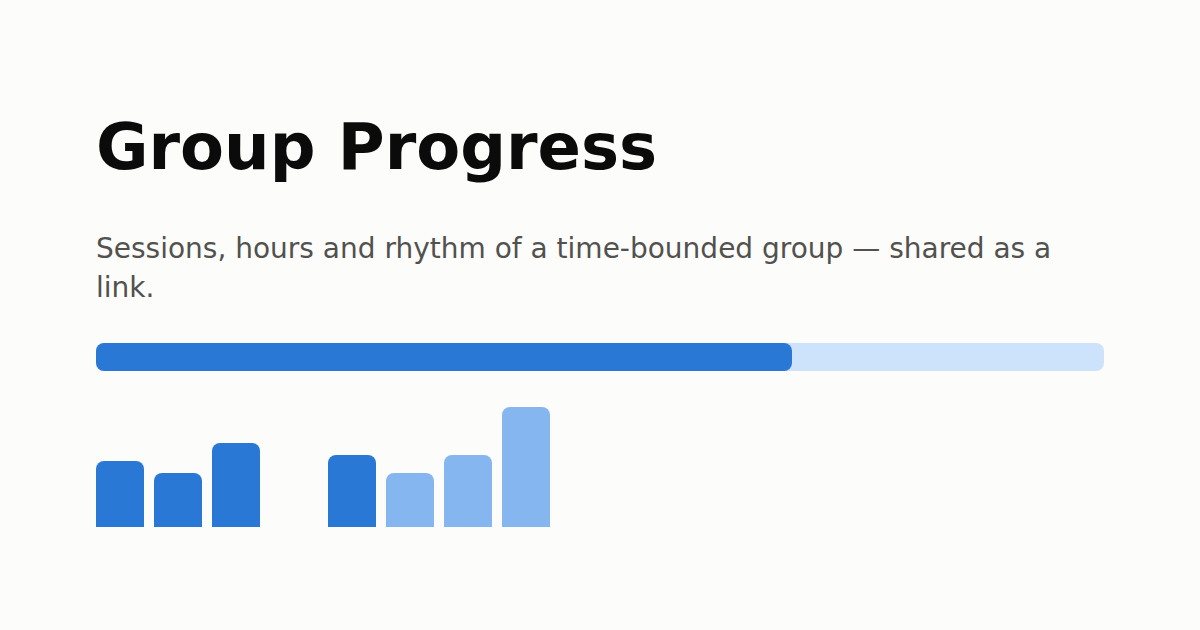
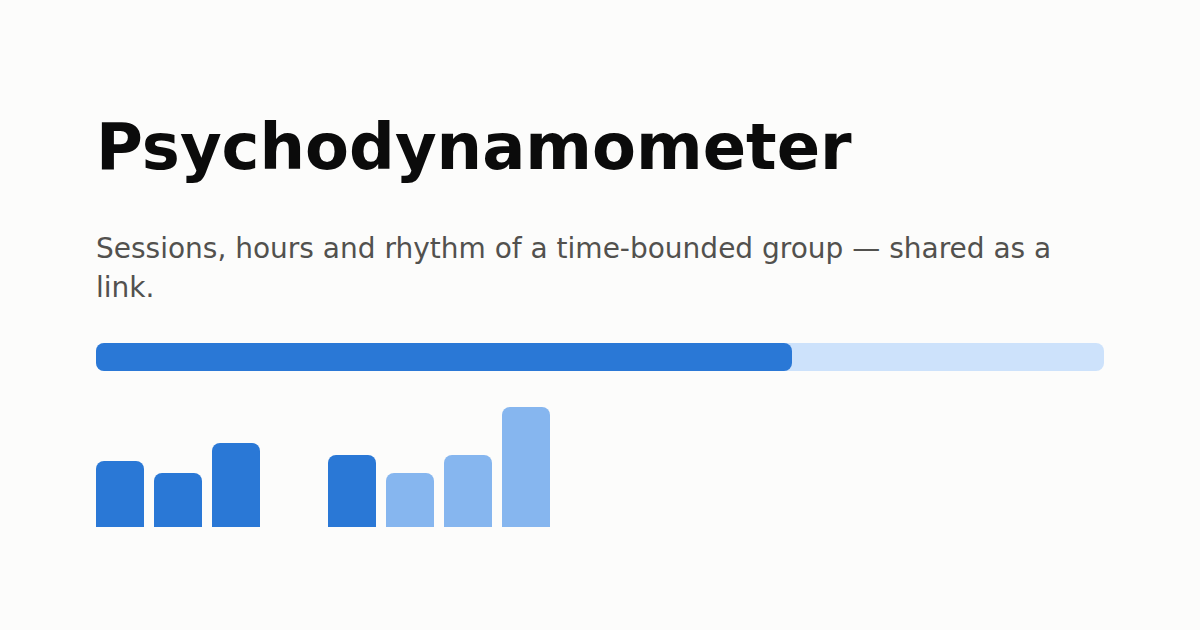
feat: add an app-title h1 and github link, and move to the new repo home

Changed region(s): [[0.0617, 0.181, 0.7092, 0.3016]]

diff --git a/index.html b/index.html
@@ -3,20 +3,21 @@
 	<head>
 		<meta charset="utf-8" />
 		<meta name="viewport" content="width=device-width, initial-scale=1" />
-		<title>Group Progress</title>
+		<title>Psychodynamometer</title>
 		<meta
 			name="description"
 			content="Sessions, hours and rhythm of a time-bounded group — computed live, shared as a link."
 		/>
-		<meta property="og:title" content="Group Progress" />
+		<meta property="og:title" content="Psychodynamometer" />
 		<meta
 			property="og:description"
 			content="Sessions, hours and rhythm of a time-bounded group — computed live, shared as a link."
 		/>
 		<meta property="og:type" content="website" />
+		<meta property="og:url" content="https://vintagentleman.github.io/psychodynamometer/" />
 		<meta
 			property="og:image"
-			content="https://ksipunin.github.io/psycho-group-progress/assets/og.png"
+			content="https://vintagentleman.github.io/psychodynamometer/assets/og.png"
 		/>
 		<link rel="icon" href="assets/favicon.svg" type="image/svg+xml" />
 		<link rel="stylesheet" href="style.css" />
@@ -27,11 +28,36 @@
 			<noscript>This tool needs JavaScript to compute progress from the link.</noscript>
 		</main>
 
-		<template id="tpl-lang-toggle">
-			<div class="lang-toggle" role="group" aria-label="Language / Язык">
-				<button type="button" class="lang" data-lang="en">EN</button>
-				<button type="button" class="lang" data-lang="ru">RU</button>
-			</div>
+		<template id="tpl-topbar">
+			<header class="topbar">
+				<h1 class="app-title" data-i18n="appTitle"></h1>
+				<div class="topbar-actions">
+					<div class="lang-toggle" role="group" aria-label="Language / Язык">
+						<button type="button" class="lang" data-lang="en">EN</button>
+						<button type="button" class="lang" data-lang="ru">RU</button>
+					</div>
+					<a
+						class="gh-link"
+						href="https://github.com/vintagentleman/psychodynamometer"
+						target="_blank"
+						rel="noopener"
+						aria-label="GitHub"
+					>
+						<svg
+							viewBox="0 0 16 16"
+							width="20"
+							height="20"
+							fill="currentColor"
+							aria-hidden="true"
+							focusable="false"
+						>
+							<path
+								d="M8 0C3.58 0 0 3.58 0 8c0 3.54 2.29 6.53 5.47 7.59.4.07.55-.17.55-.38 0-.19-.01-.82-.01-1.49-2.01.37-2.53-.49-2.69-.94-.09-.23-.48-.94-.82-1.13-.28-.15-.68-.52-.01-.53.63-.01 1.08.58 1.23.82.72 1.21 1.87.87 2.33.66.07-.52.28-.87.51-1.07-1.78-.2-3.64-.89-3.64-3.95 0-.87.31-1.59.82-2.15-.08-.2-.36-1.02.08-2.12 0 0 .67-.21 2.2.82.64-.18 1.32-.27 2-.27.68 0 1.36.09 2 .27 1.53-1.04 2.2-.82 2.2-.82.44 1.1.16 1.92.08 2.12.51.56.82 1.27.82 2.15 0 3.07-1.87 3.75-3.65 3.95.29.25.54.73.54 1.48 0 1.07-.01 1.93-.01 2.2 0 .21.15.46.55.38A8.013 8.013 0 0016 8c0-4.42-3.58-8-8-8z"
+							/>
+						</svg>
+					</a>
+				</div>
+			</header>
 		</template>
 
 		<template id="tpl-page">

diff --git a/src/app.js b/src/app.js
@@ -87,8 +87,8 @@ function currentPayload() {
 	return match ? match[1] : null;
 }
 
-function langToggleFragment() {
-	const fragment = cloneTemplate('tpl-lang-toggle');
+function topbarFragment() {
+	const fragment = cloneTemplate('tpl-topbar');
 	for (const button of fragment.querySelectorAll('button.lang')) {
 		const lang = /** @type {HTMLElement} */ (button).dataset.lang;
 		button.classList.toggle('active', locale === lang);
@@ -366,9 +366,9 @@ function renderPage() {
 
 	const titleSlot = slot(page, '.title-slot');
 	if (mode === 'view') {
-		const h1 = document.createElement('h1');
-		h1.textContent = data.title;
-		titleSlot.appendChild(h1);
+		const h2 = document.createElement('h2');
+		h2.textContent = data.title;
+		titleSlot.appendChild(h2);
 	} else {
 		const input = document.createElement('input');
 		input.name = 'title';
@@ -412,7 +412,7 @@ function renderPage() {
 
 	if (mode === 'edit' && state.badLink) slot(page, '.note-badlink').hidden = false;
 
-	app.replaceChildren(langToggleFragment(), page);
+	app.replaceChildren(topbarFragment(), page);
 
 	fillDerived(page, mode === 'edit' ? readForm() : data, new Date(), mode);
 	if (mode === 'edit') markInvalidRows();

diff --git a/style.css b/style.css
@@ -77,11 +77,41 @@ button {
 	}
 }
 
+.topbar {
+	display: flex;
+	justify-content: space-between;
+	align-items: center;
+	gap: 12px;
+	margin-bottom: 10px;
+}
+
+.app-title {
+	margin: 0;
+	min-width: 0;
+	font-size: 14px;
+	font-weight: 600;
+	color: var(--ink);
+}
+
+.topbar-actions {
+	display: flex;
+	flex: none;
+	align-items: center;
+	gap: 10px;
+}
+
+.gh-link {
+	display: inline-flex;
+	color: var(--muted);
+}
+
+.gh-link:hover {
+	color: var(--ink);
+}
+
 .lang-toggle {
 	display: flex;
-	justify-content: flex-end;
 	gap: 4px;
-	margin-bottom: 10px;
 
 	& .lang {
 		padding: 4px 10px;
@@ -110,7 +140,7 @@ button {
 	padding: 20px;
 	border-bottom: 1px solid var(--hairline);
 
-	& h1 {
+	& h2 {
 		margin: 0;
 		font-size: 20px;
 	}

diff --git a/src/i18n.js b/src/i18n.js
@@ -3,6 +3,7 @@
 /** @type {Record<Locale, Record<string, string>>} */
 export const messages = {
 	en: {
+		appTitle: 'Psychodynamometer',
 		progress: 'Progress',
 		nextSession: 'Next session',
 		inProgress: 'in progress',
@@ -33,6 +34,7 @@ export const messages = {
 		remove: 'Remove',
 	},
 	ru: {
+		appTitle: 'Психодинамометр',
 		progress: 'Прогресс',
 		nextSession: 'Следующая сессия',
 		inProgress: 'идёт сейчас',

diff --git a/assets/og-card.html b/assets/og-card.html
@@ -2,7 +2,7 @@
 <html lang="en">
 	<head>
 		<meta charset="utf-8" />
-		<title>Group Progress</title>
+		<title>Psychodynamometer</title>
 		<style>
 			body {
 				margin: 0;
@@ -57,7 +57,7 @@
 		</style>
 	</head>
 	<body>
-		<h1>Group Progress</h1>
+		<h1>Psychodynamometer</h1>
 		<p>Sessions, hours and rhythm of a time-bounded group — shared as a link.</p>
 		<div class="meter"><div class="fill"></div></div>
 		<div class="strip">

diff --git a/README.md b/README.md
@@ -1,4 +1,6 @@
-# Group Progress
+# Psychodynamometer
+
+[![Live on GitHub Pages](https://img.shields.io/badge/live-GitHub%20Pages-2a78d6)](https://vintagentleman.github.io/psychodynamometer/)
 
 A static, shareable progress page for time-bounded therapy and coaching
 groups: contracted hours vs hours done, the next session, weekly rhythm and
@@ -16,7 +18,8 @@ cost a participant a session; that format is banned here by construction).
 Open the page, fill in the group name, target hours and sessions, press
 **Copy link**, share the link. Anyone opening it sees current progress —
 past and upcoming are computed against their clock, so the link never goes
-stale. Language auto-detects (EN/RU) and can be toggled.
+stale. They can hit **Edit** to adjust and re-share; the address bar stays in
+sync as you edit. Language auto-detects (EN/RU) and can be toggled.
 
 The data lives entirely in the URL hash: nothing is uploaded anywhere.
 

diff --git a/CLAUDE.md b/CLAUDE.md
@@ -1,4 +1,4 @@
-# psycho-group-progress
+# psychodynamometer
 
 Static group-progress visualiser (GitHub Pages). No bundler, no minifier, no
 runtime dependencies, no frameworks — plain ES modules served as authored.
